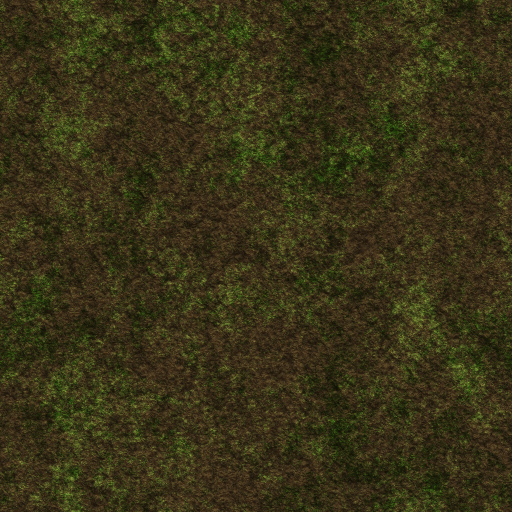
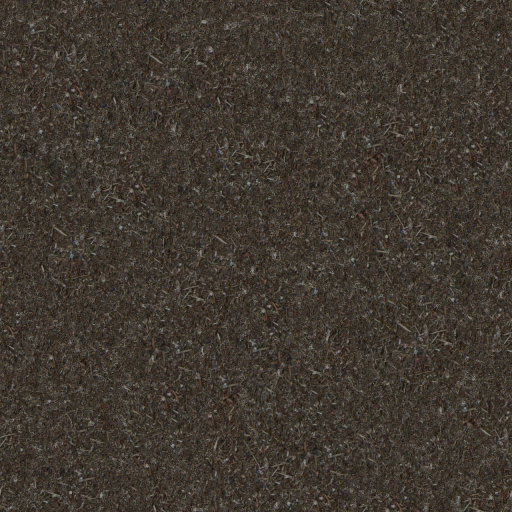
track base selection

diff --git a/scripts/ui/Editor.cs b/scripts/ui/Editor.cs
@@ -843,7 +843,13 @@ public partial class Editor : Control
 		foreach (var carPath in paths) carType.SetText(1, carType.GetText(1) + carPath + ",");
 		carType.SetText(1, carType.GetText(1).Trim(','));
 		carType.SetEditable(1, true);
-
+		
+		var trackBase = OptionsTree.CreateItem(root);
+		trackBase.SetText(0, "TrackBase");
+		trackBase.SetCellMode(1, TreeItem.TreeCellMode.Range);
+		trackBase.SetText(1, "grass,sand,snow");
+		trackBase.SetEditable(1, true);
+		
 		var lapsCount = OptionsTree.CreateItem(root);
 		lapsCount.SetText(0, "Laps");
 		lapsCount.SetCellMode(1, TreeItem.TreeCellMode.Range);
@@ -889,14 +895,19 @@ public partial class Editor : Control
 				break;
 			case "TrackType":
 				Track.Options.TrackType = editedItem.GetText(editedColumn);
+				InvalidateTrack();
 				break;
 			case "CarType":
-				Track.Options.CarType =
-					editedItem.GetText(editedColumn).Split(",")[(int)editedItem.GetRange(editedColumn)];
+				Track.Options.CarType = editedItem.GetText(editedColumn).Split(",")[(int)editedItem.GetRange(editedColumn)];
+				InvalidateTrack();
+				break;
+			case "TrackBase":
+				Track.Options.TrackBase = editedItem.GetText(editedColumn).Split(",")[(int)editedItem.GetRange(editedColumn)];
+				Track.ReloadTrackBase();
 				break;
 			case "Laps":
-				Track.Options.Laps =
-					(int) editedItem.GetRange(editedColumn);
+				Track.Options.Laps = (int) editedItem.GetRange(editedColumn);
+				InvalidateTrack();
 				break;
 			case "DayTime":
 				Track.Options.StartDayTime = (int)editedItem.GetRange(editedColumn);

diff --git a/scripts/nodes/Track.cs b/scripts/nodes/Track.cs
@@ -15,6 +15,8 @@ public partial class Track : Node3D
 	
 	public TrackOptions Options = new();
 
+	public Node3D TrackBase;
+	
 	public void UpdateLighting()
 	{
 		TimeOfDay.Set("current_time", Options.StartDayTime);
@@ -67,7 +69,24 @@ public partial class Track : Node3D
 		}
 
 		Options = data.Options;
+
+		ReloadTrackBase();
 		
 		UpdateLighting();
+	}
+
+	public void ReloadTrackBase()
+	{
+		if (TrackBase != null)
+		{
+			RemoveChild(TrackBase);
+			TrackBase.QueueFree();
+		}
+
+		var path = "res://scenes/game/track_bases/track_base_" + Options.TrackBase + ".tscn";
+		PackedScene baseScene = (PackedScene)GD.Load(path);
+		TrackBase = baseScene.Instantiate<Node3D>();
+		TrackBase.SetName("TrackBase");
+		AddChild(TrackBase, true);
 	}
 }

diff --git a/scripts/data/TrackOptions.cs b/scripts/data/TrackOptions.cs
@@ -7,6 +7,7 @@ public class TrackOptions
 	public string AuthorName = "Anonymous";
 	public string TrackType = "TimeAttack";
 	public string CarType = "thedriftcar.tscn";
+	public string TrackBase = "grass";
 	public string Message = "";
 	public int Laps = 0;
 	public int AuthorTime = 0;
